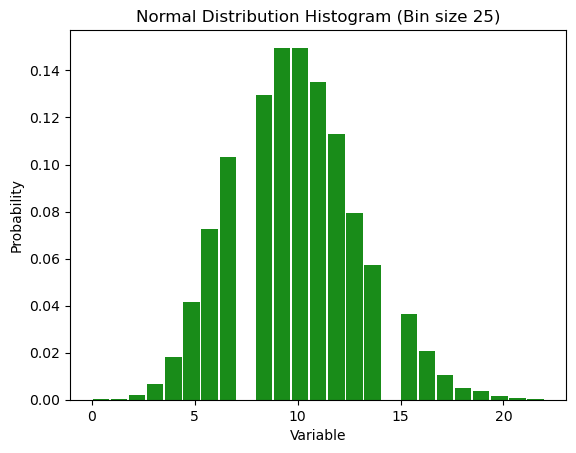
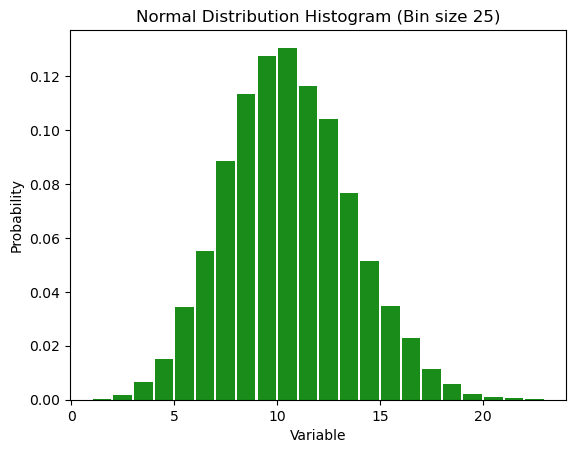
rm some text

diff --git a/_posts/2022-09-17-distributions.md b/_posts/2022-09-17-distributions.md
@@ -322,34 +322,11 @@ fig = plt.figure()
 
 # Generate data
 x = np.random.binomial(n=num_trials, p=prob_success, size=num_samples)
+# you could also do this with scipy like so:
+# x = binom.rvs(n=num_trials, p=prob_success, size=num_samples)
+
 num_bins = 25
-
-n, bins, patches = plt.hist(x, num_bins, density=True, color='g', alpha=0.9, rwidth=0.9)
-
-plt.xlabel('Variable')
-plt.ylabel('Probability')
-
-plt.title("Normal Distribution Histogram (Bin size {})".format(num_bins))
-plt.show()
-```
-
-
-    
-![png](2022-09-17-distributions_files/2022-09-17-distributions_59_0.png)
-    
-
-
-Note that sometimes the bin edges are not aligned with the integer values in your data, so you get the gaps that you see above. One solition is to define the bins explicitly, like so:
-
-
-```python
-fig = plt.figure()
-
-# Generate data
-x = np.random.binomial(n=num_trials, p=prob_success, size=num_samples)
-num_bins = 25
-
-# Define bin edges
+# Define bin edges explicitly to avoid gaps
 bin_edges = np.arange(min(x), max(x) + 2)
 
 # Plot the histogram
@@ -365,25 +342,7 @@ plt.show()
 
 
     
-![png](2022-09-17-distributions_files/2022-09-17-distributions_61_0.png)
-    
-
-
-You can also do the same thing with `scipy`.
-
-
-```python
-binon_sim = binom.rvs(n=num_trials, p=prob_success, size=num_samples)
-bin_edges = np.arange(min(x), max(x) + 2)
-plt.hist(x, bins=bin_edges, density=True, color='g', alpha=0.9, rwidth=0.9)
-plt.xlabel('Variable')
-plt.ylabel('Probability')
-plt.show()
-```
-
-
-    
-![png](2022-09-17-distributions_files/2022-09-17-distributions_63_0.png)
+![png](2022-09-17-distributions_files/2022-09-17-distributions_59_0.png)
     
 
 
@@ -423,7 +382,7 @@ ax.set(xlabel='Variable', ylabel='Count');
 
 
     
-![png](2022-09-17-distributions_files/2022-09-17-distributions_72_0.png)
+![png](2022-09-17-distributions_files/2022-09-17-distributions_68_0.png)
     
 
 
